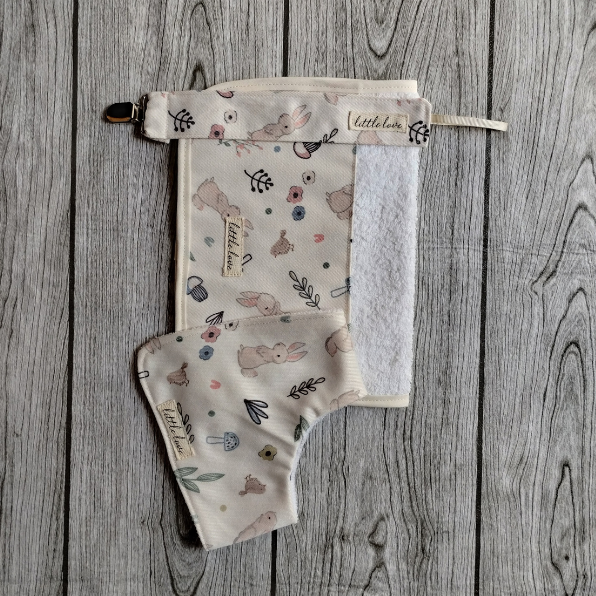
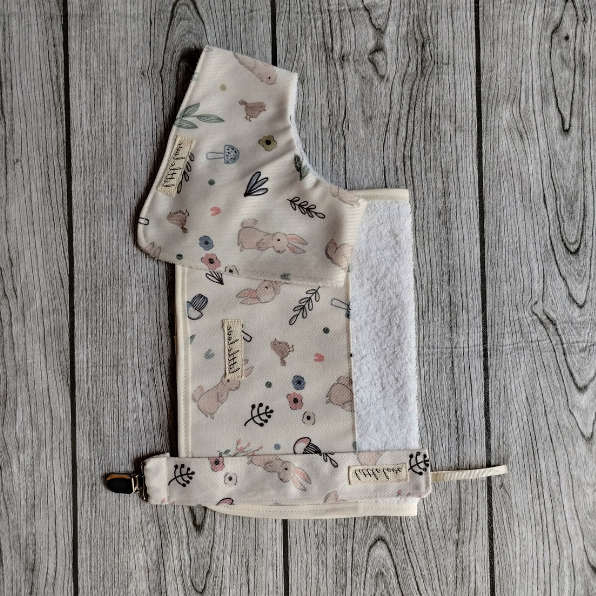
sección empresa, nuevo sitemap arreglo de imagenes en productos

diff --git a/section/product.html b/section/product.html
@@ -159,7 +159,7 @@
 
                             <div class="row">
                                 <div class="col-md-6 col-sm-12">
-                                    <img src="../assetsnav/productosetprincipal-min.jpg" class="img__principal mr-3 h-75" alt="setropa1">
+                                    <img src="../assetsnav/productosetprincipal-min.jpg" class="img__principal mr-3" alt="setropa1">
                                 </div>
 
                         <div class="col-md-6 col-sm-12">
@@ -169,8 +169,8 @@
                             </div>
 
                             <div class="row">
-                                <img src="../assetsnav/productoset3-min.jpg" class="img__secondary col-12 mt-4" alt="setropa3">
-                                <img src="../assetsnav/productoset4-min.jpg" class="img__secondary col-12 mt-4 h-75" alt="setropa5">
+                                <img src="../assetsnav/productoset3-min.png" class="img__secondary col-12 mt-4" alt="setropa3">
+                                <img src="../assetsnav/productoset4-min.jpg" class="img__secondary col-12 mt-4" alt="setropa5">
                             </div>
 
                         </div>
@@ -224,12 +224,12 @@
 
                         <div class="col-md-6 col-sm-12">
                             <div class="row">
-                                <img src="../assetsnav/productobabero1.jpg" class="img__secondary col-12" alt="babero uno">
-                                <img src="../assetsnav/productobabero2.jpg" class="img__secondary col-12" alt="babero dos">
+                                <img src="../assetsnav/productobaberoreotado1.png" class="img__secondary col-12" alt="babero uno">
+                                <img src="../assetsnav/productobaberorotado2.png" class="img__secondary col-12" alt="babero dos">
                             </div>
 
                             <div class="row">
-                                <img src="../assetsnav/productobabero3.jpg" class="img__secondary col-12 mt-4" alt="babero tres">
+                                <img src="../assetsnav/productobaberoratado3.png" class="img__secondary col-12 mt-4" alt="babero tres">
                                 <img src="../assetsnav/productobabero4.jpg" class="img__secondary col-12 mt-4" alt="babero cuatro">
                             </div>
 
@@ -250,17 +250,17 @@
 
                             <div class="row">
                                 <div class="col-md-6 col-sm-12">
-                                    <img src="../assetsnav/productosetbabitaprincipal.png" class="img__principal mr-3" alt="set babita">
+                                    <img src="../assetsnav/productosetbabitaprincipalrotada.png" class="img__principal mr-3" alt="set babita">
                                 </div>
 
                         <div class="col-md-6 col-sm-12">
                             <div class="row">
-                                <img src="../assetsnav/productosetbabita1.png" class="img__secondary col-12" alt="set babita uno">
+                                <img src="../assetsnav/productosetbabitarotado1.png" class="img__secondary col-12" alt="set babita uno">
                                 
                             </div>
 
                             <div class="row">
-                                <img src="../assetsnav/productosetbabita2.png" class="img__secondary col-12 mt-4" alt="set babita babero">
+                                <img src="../assetsnav/productosetbabitarotado2.png" class="img__secondary col-12 mt-4" alt="set babita babero">
                                 
                             </div>
 

diff --git a/section/empresa.html b/section/empresa.html
@@ -68,7 +68,7 @@
                                     <div class="card-body">
                                       <h5 class="card-title">Mini Box</h5>
                                       <p class="card-text">Bienvenida Bebe.</p>
-                                      <p class="card-text"><small class="text-muted">Lorem ipsum dolor sit, amet consectetur adipisicing elit. Iure hic voluptatum distinctio laudantium. Quis dolorem, error consectetur iste facere dolore laudantium in cupiditate consequuntur, doloribus voluptate sunt tenetur, voluptatibus officia!</small></p>
+                                      <p class="card-text"><small class="text-muted">La llegada de un bebé es un momento muy especial en la vida de cualquier familia, y en Little Love queremos ayudar a que ese momento sea aún más especial. Por eso, hemos creado la MiniBox Hola Mundo, una caja personalizable con los productos que desees para agasajar a los nuevos integrantes de tu equipo. Desde babitas hasta portachupetes y muñecos de apego, podemos armar la caja según tus necesidades y presupuesto. ¡Así aseguramos que cada regalo sea único y especial para cada familia! </small></p>
                                     </div>
                                   </div>
                                 </div>
@@ -85,7 +85,7 @@
                                     <div class="card-body">
                                       <h5 class="card-title">Gran Box</h5>
                                       <p class="card-text">Bienvenida Bebe.</p>
-                                      <p class="card-text"><small class="text-muted">Lorem, ipsum dolor sit amet consectetur adipisicing elit. Corrupti distinctio, accusantium ratione delectus sapiente, blanditiis autem sed assumenda architecto ex, rem alias recusandae? Facilis deleniti cum tempora natus ex a!</small></p>
+                                      <p class="card-text"><small class="text-muted"> Como creadora de Little Love sé que los recursos humanos son el corazón de cualquier organización, y que cuando un miembro del equipo tiene un bebé, todos queremos celebrar esa alegría juntos. Es por eso que creamos la Box Hola Mundo, una caja personalizada con los productos que prefieras para dar la bienvenida al nuevo miembro de la familia. Nos adaptamos a tus necesidades y presupuesto para que cada regalo sea único y especial para cada familia. ¡Con nuestra Box Hola Mundo, el equipo se sentirá valorado y apreciado en cada momento especial!</small></p>
                                     </div>
                                   </div>
                                 </div>
